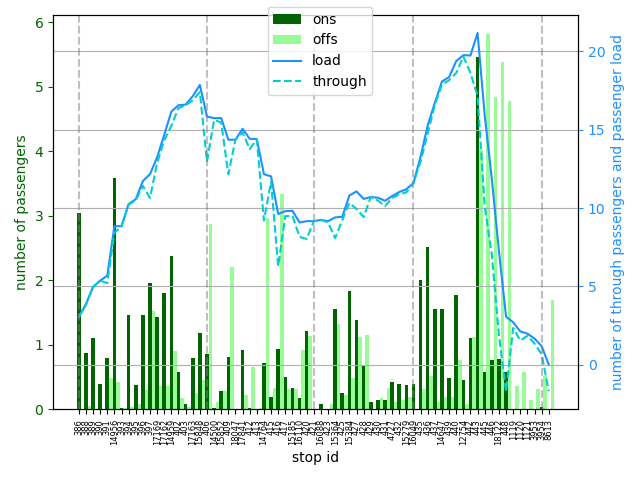
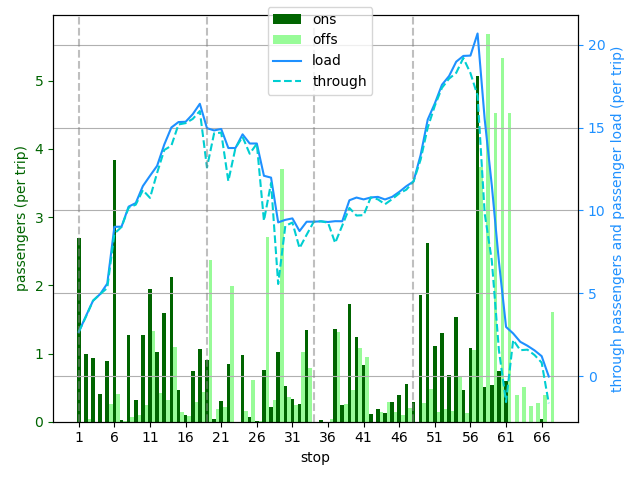
tr-c paper cosmetic updates

diff --git a/src/04_SIMULATION/main_simul.py b/src/04_SIMULATION/main_simul.py
@@ -197,13 +197,13 @@ path_p_rl = 'out/RL/pax_set_0106-191406.pkl'
 # #
 
 # PROCESS RAW RESULTS
-path_trips = [path_tr_nc, path_tr_eh, path_tr_rl]
-path_pax = [path_p_nc, path_p_eh, path_p_rl]
-tags = ['NC', 'EH', 'RL']
-post_processor = PostProcessor(path_trips, path_pax, tags)
-post_processor.write_trajectories()
-post_processor.total_trip_time_distribution()
-post_processor.headway()
+# path_trips = [path_tr_nc, path_tr_eh, path_tr_rl]
+# path_pax = [path_p_nc, path_p_eh, path_p_rl]
+# tags = ['NC', 'EH', 'RL']
+# post_processor = PostProcessor(path_trips, path_pax, tags)
+# post_processor.write_trajectories()
+# post_processor.total_trip_time_distribution()
+# post_processor.headway()
 # post_processor.load_profile()
 # post_processor.denied()
 # post_processor.hold_time()
@@ -213,14 +213,14 @@ post_processor.headway()
 
 
 # VALIDATION
-# path_trips = [path_tr_nc]
-# path_pax = [path_p_nc]
-# post_processor = PostProcessor(path_trips, path_pax, ['NC'])
+path_trips = [path_tr_nc]
+path_pax = [path_p_nc]
+post_processor = PostProcessor(path_trips, path_pax, ['NC'])
 # post_processor.departure_delay_validation()
 # post_processor.dwell_time_validation()
 # post_processor.trip_time_dist_validation()
 # post_processor.load_profile_validation()
-# post_processor.load_profile_base()
+post_processor.load_profile_base()
 
 # PROCESS TRAJECTORIES FILE
 # stops = post_process.load('in/xtr/rt_20-2019-09/route_stops.pkl')

diff --git a/src/04_SIMULATION/post_process.py b/src/04_SIMULATION/post_process.py
@@ -196,8 +196,11 @@ def plot_load_profile(bd, al, lp, os, through, pathname=None, x_y_lbls=None, con
         for cs in controlled_stops:
             idx = os.index(cs)
             plt.axvline(x=idx, color='gray', alpha=0.5, linestyle='dashed')
-    ax1.set_xticks(x1)
-    ax1.set_xticklabels(os, fontsize=6, rotation=90)
+    x_ticks = np.arange(0, len(os), 5)
+    x_tick_labels = x_ticks + 1
+    ax1.set_xticks(x_ticks)
+    ax1.set_xticklabels(x_tick_labels)
+    # ax1.set_xticklabels(x_ticks, fontsize=6, rotation=90)
     # right, left, top, bottom
     if x_y_lbls:
         ax1.set_xlabel(x_y_lbls[0])

diff --git a/src/04_SIMULATION/output.py b/src/04_SIMULATION/output.py
@@ -175,8 +175,8 @@ class PostProcessor:
         through = np.subtract(lp, offs)
         through = through.tolist()
         plot_load_profile(ons, offs, lp, STOPS, through, pathname='out/load_profile_NC.png',
-                          x_y_lbls=['stop id', 'number of passengers', 'number of through passengers and passenger load'],
-                          controlled_stops=CONTROLLED_STOPS)
+                          x_y_lbls=['stop', 'passengers (per trip)', 'through passengers and passenger load (per trip)'],
+                          controlled_stops=CONTROLLED_STOPS[:-1])
         return
 
 
